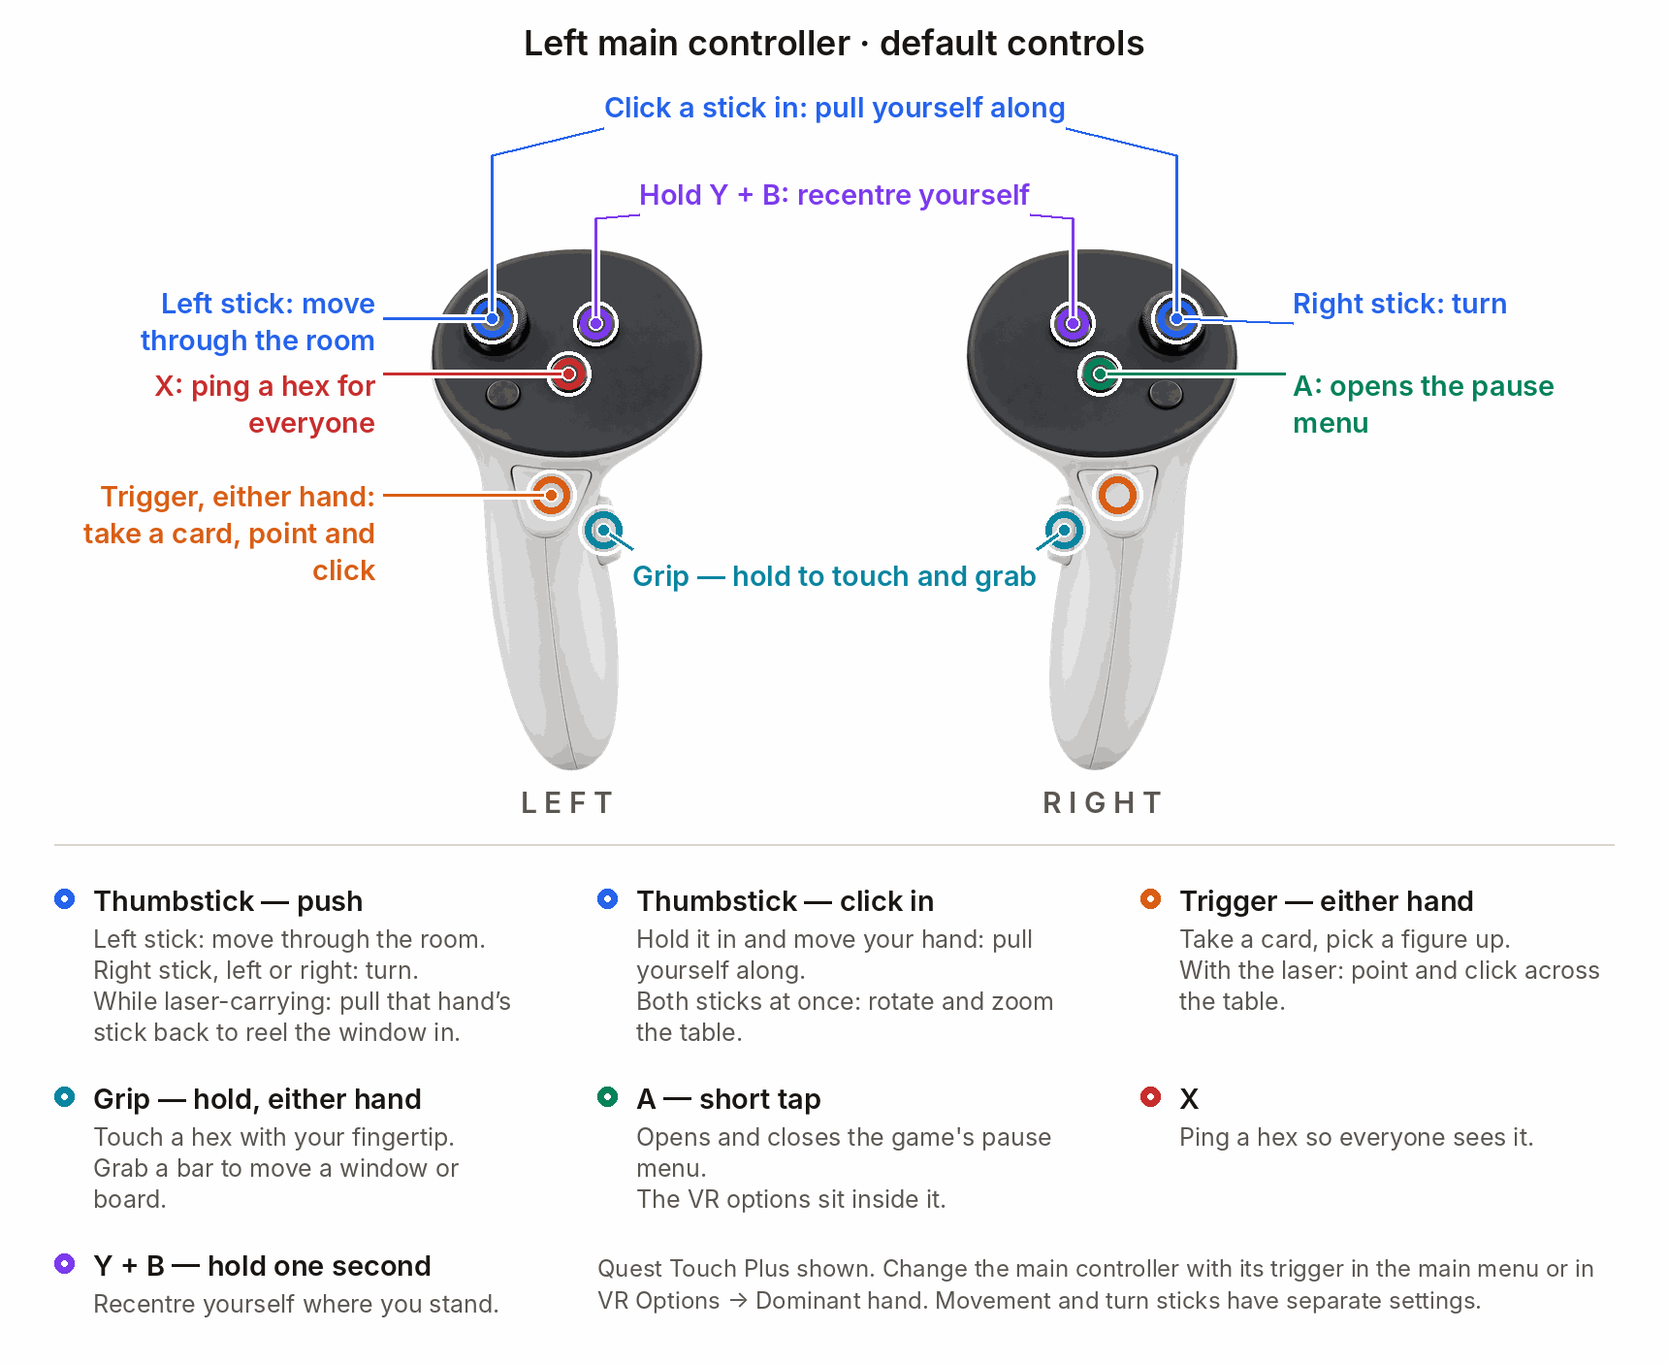
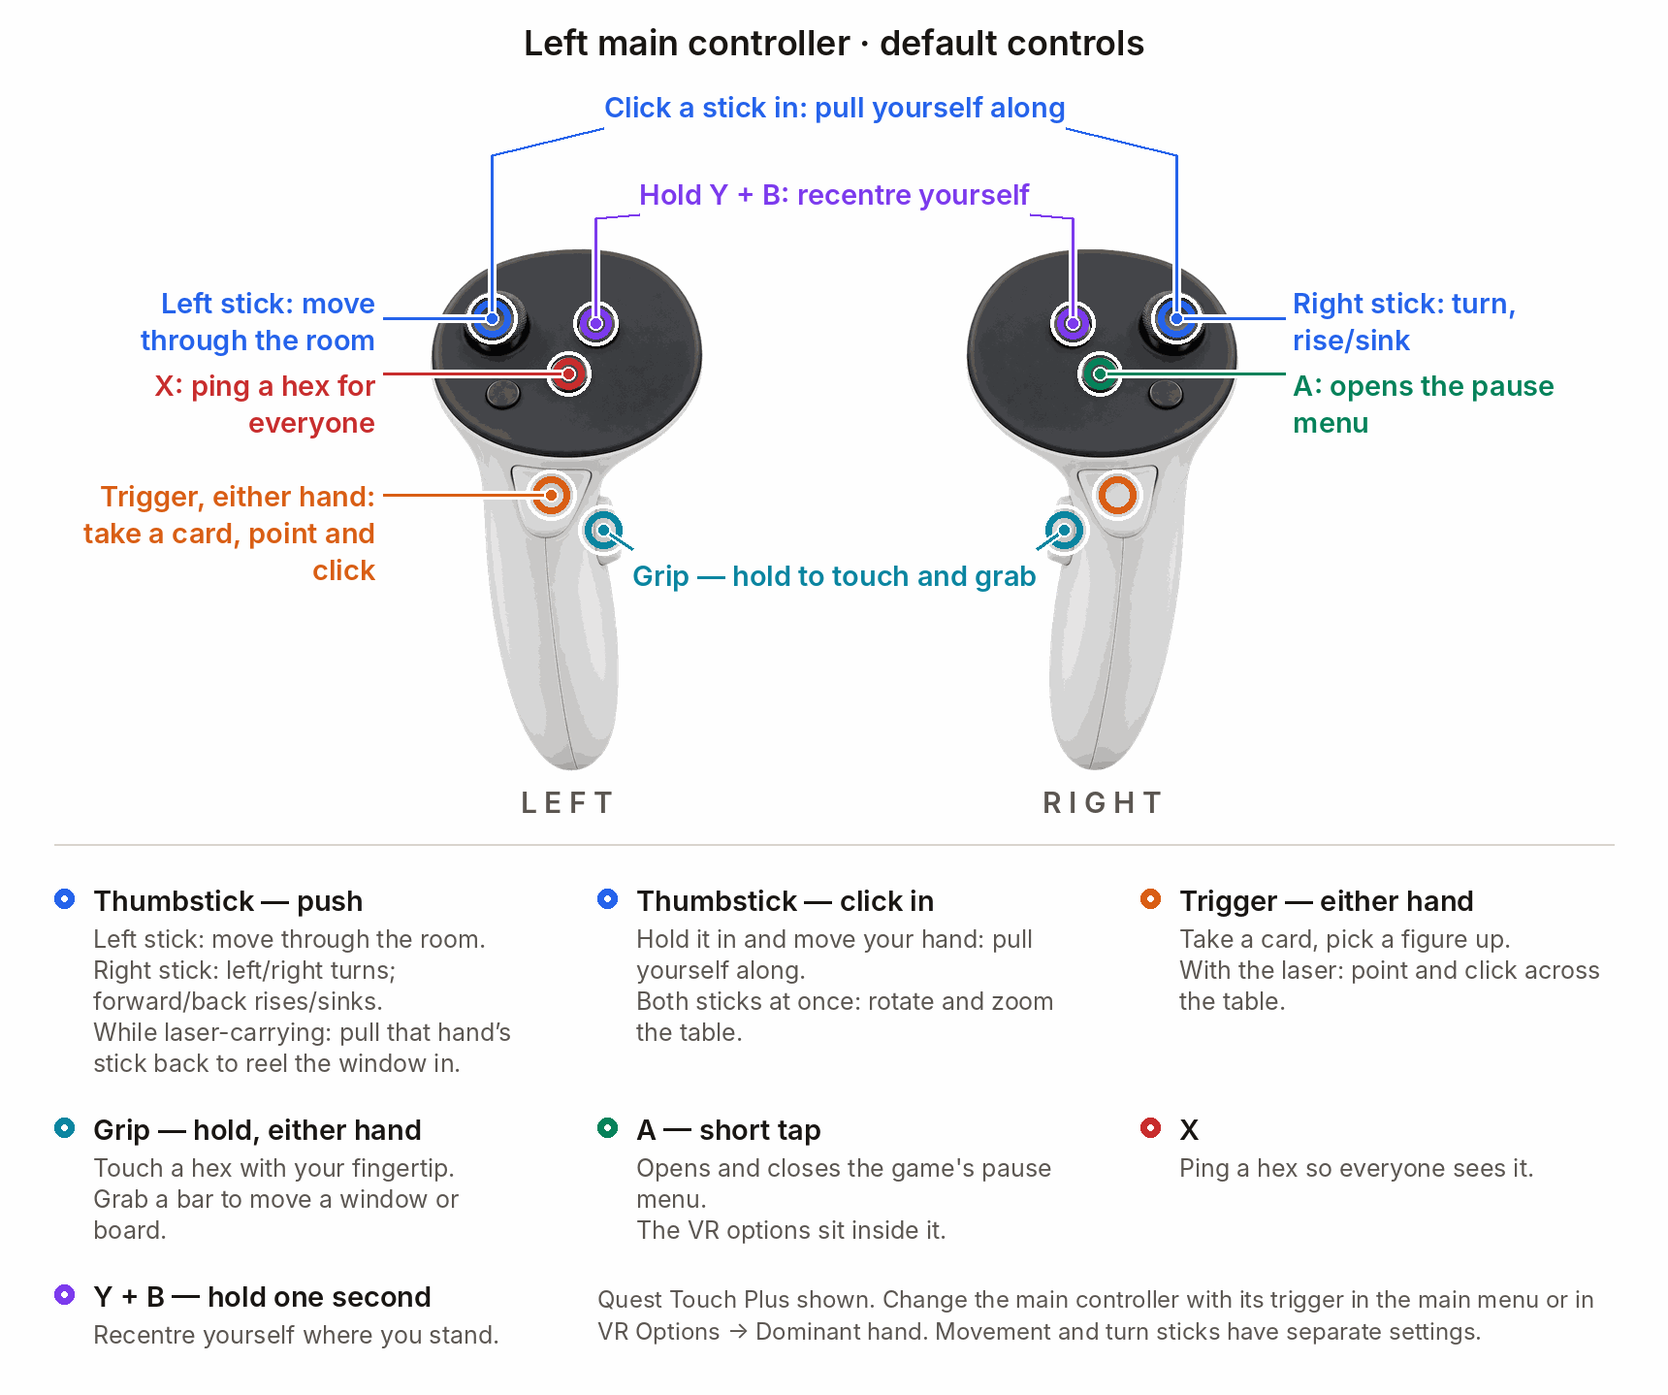
fix: apply requested comfort defaults and guard prompt teardown
Document initiative, fan sorting, recenter and new defaults in English and German; regenerate both handed controller diagrams. Register the board motion regression vectors. Final integration gates follow with build497.

diff --git a/src/GloomhavenVR/Rig/ComfortSettings.cs b/src/GloomhavenVR/Rig/ComfortSettings.cs
@@ -379,10 +379,7 @@ internal static class ComfortSettings
             new AcceptableValueRange<float>(0.2f, 3f));
         FlightHand = Bind("FlightHand", Defaults.FlightHand,
             "Which thumbstick flies. Dominant follows [Hands] PrimaryHand.");
-        // OFF BY DEFAULT, and that is the request itself rather than caution added on top: the user
-        // asked to be able to SET it ("Ich will es auch Optional einstelbar machen"). Its off state
-        // is exactly today's behaviour, so nothing about the flow depends on it, and uncommanded
-        // vertical motion is the one nausea risk in this feature.
+        // Enabled by default by the user ruling of 2026-09-10; the setting remains optional.
         TurnStickVertical = Bind("TurnStickVertical", Defaults.TurnStickVertical,
             "Push the TURN stick forward to rise and back to sink, straight up and down, at the " +
             "same speed as FlightMaxSpeed. Turning keeps the sideways axis and is never blocked by " +
@@ -390,11 +387,7 @@ internal static class ComfortSettings
             "it lifts at all, so a diagonal push at 45 degrees is a pure turn. Needs the turn hand " +
             "and the flight hand to be DIFFERENT hands - with both on one controller, forward and " +
             "backward flight already owns that axis and keeps it, and this does nothing.");
-        // ON BY DEFAULT, and unlike TurnStickVertical above that is not a contradiction: the user
-        // asked for the BEHAVIOUR ("implementiere sie") and named the switch only so it can be
-        // turned OFF ("als Option an/ausschaltbar"). A window pulled toward the player is also a
-        // strictly safer motion than the vertical lift — the player is not moved, one window is,
-        // and only while they hold its bar with the trigger.
+        // The reel owns this stick axis only while a window is laser-carried.
         LaserCarryReel = Bind("LaserCarryReel", Defaults.LaserCarryReel,
             "While you hold a window at a distance with the laser, pull that hand's thumbstick " +
             "BACK to draw the window toward you and push it forward to send it away - the " +

diff --git a/src/GloomhavenVR/WorldUI/Modal/SharedWindows.cs b/src/GloomhavenVR/WorldUI/Modal/SharedWindows.cs
@@ -432,18 +432,11 @@ internal static class SharedWindows
     /// <para><b>WHY THIS EXISTS: user request 7 (2026-08-22, verbatim)</b> — "Die Bewegungen der
     /// 'blauen' MP-Fenster, die 1:1 synchronisiert werden sollen, sollen auch die Bewegung und die
     /// Position voll übertragen (flüssig, wie bei der Position des Boards auch)". The board's
-    /// smoothness is TWO mechanisms, not one, and this is the SENDER half of it: while the owner is
-    /// dragging their board, <c>NetAvatarDriver.TickExtrasSend</c> raises the whole extras packet to
-    /// the RIG rate (<c>NetProtocol.SendRateHz</c> = 15 Hz) instead of the idle
-    /// <c>ExtrasSendRateHz</c> = 5 Hz, so the receiver's easing gets the same sample density the
-    /// head and hands already get ("Bewegen kommt nicht flüssig an", defect 7 of the 1:1-parity
-    /// round — see the boardMoving/poseDue pair there and the note in
-    /// <c>Net.RemoteControlBoard</c>). A shared window that is being carried is the same kind of
-    /// motion and now rides the same cadence.</para>
+    /// smoothness combines rig-rate samples and receiver easing. Shared-window grabs retain
+    /// their 15 Hz extras gate; since build497 the board itself travels in the small rig packet.
+    /// Both use the shared interpolation sharpness.</para>
     ///
-    /// <para><b>WHY "GRABBED" AND NOT "THE POSE CHANGED".</b> The board's own test compares the
-    /// sampled pose against the last SENT one, because the board has exactly one pose and the sender
-    /// already holds it. There is no such single quantity here — three window kinds, each of which
+    /// <para><b>WHY "GRABBED" AND NOT "THE POSE CHANGED".</b> Three window kinds
     /// may be absent — and a per-kind last-sent cache in this class would be a second copy of state
     /// <c>Net.RemoteMapStory</c> / <c>Net.RemoteStorySync</c> already keep. A hand on the bar is a
     /// strict SUPERSET of the interval the pose changes in, it cannot false-positive on a standing

diff --git a/docs/img/build-controls-diagram.py b/docs/img/build-controls-diagram.py
@@ -238,14 +238,14 @@ LABELS = {
             "left_stick":  "Left stick: move through the room",
             "left_button": "X: opens the pause menu",
             "trigger":     "Trigger, either hand: take a card, point and click",
-            "right_stick": "Right stick: turn",
+            "right_stick": "Right stick: turn, rise/sink",
             "right_button": "A: ping a hex for everyone",
             "grip":        "Grip — hold to touch and grab",
         },
         "cells": [
             (BLUE, "Thumbstick — push", [
                 "Left stick: move through the room.",
-                "Right stick, left or right: turn.",
+                "Right stick: left/right turns; forward/back rises/sinks.",
                 "While laser-carrying: pull that hand’s stick back to reel the window in.",
             ]),
             (BLUE, "Thumbstick — click in", [
@@ -291,14 +291,14 @@ LABELS = {
             "left_stick":  "Linker Stick: durch den Raum bewegen",
             "left_button": "X: öffnet das Pause-Menü",
             "trigger":     "Trigger, beide Hände: Karte nehmen, zeigen und klicken",
-            "right_stick": "Rechter Stick: drehen",
+            "right_stick": "Rechter Stick: drehen, hoch/runter",
             "right_button": "A: ein Feld für alle markieren",
             "grip":        "Grip — halten: berühren und greifen",
         },
         "cells": [
             (BLUE, "Thumbstick — drücken", [
                 "Linker Stick: durch den Raum bewegen.",
-                "Rechter Stick, links oder rechts: drehen.",
+                "Rechter Stick: links/rechts drehen; vor/zurück steigen/sinken.",
                 "Beim Laser-Tragen: Stick dieser Hand zurückziehen, um das Fenster heranzuholen.",
             ]),
             (BLUE, "Thumbstick — eindrücken", [

diff --git a/src/GloomhavenVR/Defaults/Defaults.Rig.cs b/src/GloomhavenVR/Defaults/Defaults.Rig.cs
@@ -29,13 +29,12 @@ internal static partial class Defaults
     internal const FlightDirectionSource FlightDirection = FlightDirectionSource.Head;  // => [Comfort] FlightDirection
     internal const float FlightMaxSpeed = 1.27367f;                 // => [Comfort] FlightMaxSpeed
     internal const TurnHandChoice FlightHand = TurnHandChoice.Left;   // => [Comfort] FlightHand
-    internal const bool TurnStickVertical = false;                  // => [Comfort] TurnStickVertical  (pinned: the user asked for it as an OPTION, and its off state is the pre-feature behaviour)
+    internal const bool TurnStickVertical = true;                  // => [Comfort] TurnStickVertical  (pinned: user default ruling 2026-09-10 - vertical movement enabled)
     // ---- the laser-carry reel (user request 2026-08-23) — it OVERRULES the two rows above ----
     //
     // ON, and that is the request rather than an opinion: "Falls sie noch nicht existiert,
     // implementiere sie" asks for the behaviour, and "als Option an/ausschaltbar" asks only that
-    // the switch exist. Contrast TurnStickVertical directly above, which is pinned OFF because
-    // there the user asked to be able to SET it and its off state is the pre-feature behaviour.
+    // the switch exist. Vertical movement also defaults on since the user ruling of 2026-09-10.
     // While a laser carry holds a hand, this takes that hand's stick Y and BOTH flight rows stand
     // down for the duration — see Flight.cs, where each stand-down names itself in the log rather
     // than going quiet, because a silent suppression is indistinguishable from a broken stick.

diff --git a/src/GloomhavenVR/Net/Board/PeerBoardFade.cs b/src/GloomhavenVR/Net/Board/PeerBoardFade.cs
@@ -8,12 +8,12 @@ namespace GloomhavenVR.Net;
 
 /// <summary>
 /// What a peer's control board does while it stands between this viewer and the play field.
-/// <see cref="Off"/> is the shipped behaviour, bit for bit: nothing is measured, nothing is
-/// written, no material is touched.
+/// <see cref="Off"/> leaves the board solid: nothing is measured or written.
+/// Transparent is the default since the user ruling of 2026-09-10.
 /// </summary>
 internal enum PeerBoardFadeMode
 {
-    /// <summary>Never yield. A peer's board renders exactly as it does today (default).</summary>
+    /// <summary>Never yield. A peer's board stays solid.</summary>
     Off = 0,
 
     /// <summary>Fade to <see cref="PeerBoardFadeTuning.Alpha"/> while the board occludes the
@@ -46,7 +46,7 @@ internal static class PeerBoardFadeTuning
 {
     private static ConfigFile? _file;
 
-    /// <summary>Off (shipped behaviour) / Transparent / Hidden — see <see cref="PeerBoardFadeMode"/>.</summary>
+    /// <summary>Off / Transparent (default) / Hidden — see <see cref="PeerBoardFadeMode"/>.</summary>
     internal static ConfigEntry<PeerBoardFadeMode>? FadeMode;
     /// <summary>Residual opacity of an occluding board in <see cref="PeerBoardFadeMode.Transparent"/>.</summary>
     internal static ConfigEntry<float>? OccludedAlpha;

diff --git a/src/GloomhavenVR/Defaults/Defaults.Cards.cs b/src/GloomhavenVR/Defaults/Defaults.Cards.cs
@@ -44,7 +44,7 @@ internal static partial class Defaults
     internal const float TrayYaw = -40.568f;                                                          // => [Cards] TrayYaw
     internal const float TrayScale = 1.42826f;                                                        // => [Cards] TrayScale
     internal const float PokePadPixels = 14f;                                                         // => [Cards] PokePadPixels
-    internal const bool TrayFollow = false;                                                           // => [Cards] TrayFollow
+    internal const bool TrayFollow = true;                                                           // => [Cards] TrayFollow  (pinned: user default ruling 2026-09-10 - follow rather than fixed)
     internal const BoardMoveMode BoardMoveMode = Cards.BoardMoveMode.Free;                            // => [Cards] BoardMoveMode
     internal const float TrayPitch = 43.585f;                                                         // => [Cards] TrayPitch
     internal const float BoardPitchMinDegrees = -45f;                                                 // => [Cards] BoardPitchMinDegrees  (legacy: superseded by the per-board BoardPitchMin_<board>)

diff --git a/src/GloomhavenVR/WorldUI/Grab/GrabbableModal.cs b/src/GloomhavenVR/WorldUI/Grab/GrabbableModal.cs
@@ -1283,9 +1283,8 @@ internal sealed class GrabbableModal : IPanelGrabOwner
     //      origin. Its scale rides the SAME k — defect (e) of that round was exactly a board that
     //      "glides while it moves and stutters while it zooms", because the scale was assigned while
     //      the pose was eased.
-    //   2. THE SENDER RAISES ITS CADENCE WHILE THE THING MOVES. NetAvatarDriver.TickExtrasSend's
-    //      boardMoving/poseDue pair puts the whole extras packet on the rig rate (15 Hz) for as long
-    //      as the board's pose keeps changing, and back on 5 Hz the moment it settles.
+    //   2. THE SENDER SUPPLIES RIG-RATE MOTION SAMPLES. Board motion uses the rig packet
+    //      since497; shared windows retain their 15 Hz active-grab extras gate.
     // The shared window ASSIGNED its pose (this class's PlaceFrameAt, called straight from
     // Net.RemoteMapStory / Net.RemoteStorySync) at whatever rate the record arrived. Half of the fix
     // is here; the sender half is in NetAvatarDriver, keyed on SharedWindows.AnyGrabbedHere().

diff --git a/src/GloomhavenVR/Defaults/Defaults.Net.cs b/src/GloomhavenVR/Defaults/Defaults.Net.cs
@@ -37,7 +37,7 @@ internal static partial class Defaults
     // dev.gloomhavenvr.boardfade.cfg would have come back UNMAPPED and the tuning would have been
     // dropped on the floor at the next re-base — the exact failure mode that cost six builds on
     // [Water] RippleSpeed. The values are the shipped ones, unchanged, moved verbatim.
-    internal const PeerBoardFadeMode PeerBoardFade_Mode = PeerBoardFadeMode.Off;       // => [PeerBoardFade] Mode
+    internal const PeerBoardFadeMode PeerBoardFade_Mode = PeerBoardFadeMode.Transparent;       // => [PeerBoardFade] Mode  (pinned: user default ruling 2026-09-10 - transparent while occluding the play field)
     internal const float PeerBoardOccludedAlpha = 0.25f;                               // => [PeerBoardFade] OccludedAlpha
     internal const float PeerBoardOnFraction = 0.12f;                                  // => [PeerBoardFade] OnFraction
     internal const float PeerBoardOffFraction = 0.05f;                                 // => [PeerBoardFade] OffFraction

diff --git a/src/GloomhavenVR/Net/Remote/RemoteOriginalDecisionPrompt.cs b/src/GloomhavenVR/Net/Remote/RemoteOriginalDecisionPrompt.cs
@@ -175,5 +175,14 @@ internal sealed class RemoteOriginalDecisionPrompt
         if (_stageHost != null) Object.Destroy(_stageHost);
         _stageHost = null; _stage = null; _lines.Clear(); _targets.Clear(); _mappedStamp = -1;
     }
-    internal void Destroy() { _mirror.Destroy(); ReleaseStage(); Object.Destroy(_placement.gameObject); }
+    internal void Destroy()
+    {
+        _mirror.Destroy();
+        ReleaseStage();
+        // Scene teardown can destroy the parent before module shutdown (MB496 log).
+        // Unity's null comparison must precede gameObject access on the retained wrapper.
+        if (_placement != null) Object.Destroy(_placement.gameObject);
+        Showing = false;
+        _identity = null;
+    }
 }

diff --git a/tests/GloomhavenVR.WireTests/Program.cs b/tests/GloomhavenVR.WireTests/Program.cs
@@ -213,6 +213,7 @@ internal static class Program
             // inert path matters just as much, because a clamp that fired on the bundle he
             // already has would move Oak's caps 8 mm and be blamed on anything but the clamp.
             BoardSeatVectors.Run(t);
+            BoardRigPoseVectors.Run(t);
             BoardCapSymbolVectors.Run(t);
             // WHETHER THE WORD ON THE KEY IS THE WHOLE WORD. The ModBuild 281 cap said
             // "AUSWAHL BEEN" for "Auswahl beenden" and every gate on this list agreed with it. The

diff --git a/docs/PLAYING.de.md b/docs/PLAYING.de.md
@@ -30,12 +30,14 @@ Fliegen bleibt standardmäßig links, Drehen rechts; beides lässt sich unter **
 
 - **Gehaltene Figur skalieren:** Trigger der anderen Hand halten und die Hände auseinander oder zusammen bewegen.
 - **45°-Drehschritte:** Unter **Komfort ▸ Drehen** einschalten.
-- **Steigen/sinken mit dem Dreh-Stick:** Unter **Komfort ▸ Fortbewegung** einschalten (standardmäßig aus).
+- **Steigen/sinken:** Rechten Stick nach vorn/hinten drücken (standardmäßig an); ändern unter **Komfort ▸ Fortbewegung**.
 
 Das interaktive Tutorial markiert die jeweilige Taste auf deinen Controllern.
 Ein- und ausschalten unter **Komfort ▸ Hände & Zielen**.
 
 ## Karten und Kontrollbrett
+
+**Linke Mulde = Initiative.** Lege deine Initiativkarte links und die zweite Karte rechts ab.
 
 <p align="center">
   <img src="img/board-de.png" width="820" alt="Beschriftetes Kontrollbrett: Kartenfächer, Bestätigen und Rückgängig, Rasten, Initiativreihenfolge, aktive Karten, Gegenstände und Kartenstapel.">
@@ -46,6 +48,15 @@ Ein- und ausschalten unter **Komfort ▸ Hände & Zielen**.
 | **Auswahlphase** | Handfläche nach oben drehen, um den Fächer zu öffnen. Zwei Karten mit dem Trigger nehmen und auf das Brett legen; das linke Fach bestimmt die Initiative. **Bestätigen** drücken. Über die Porträts in der Initiativreihenfolge die Karten für jeden eigenen Charakter auswählen. |
 | **Aktionsphase** | Ist dein Charakter am Zug, die obere oder untere Kartenaktion wählen, Ziele auswählen und verfügbare Gegenstände nutzen. Entscheidungen treffen und den Zug am Brett beenden. |
 | **Charaktere ansehen** | In der Auswahlphase zwischen eigenen Charakteren wechseln. In der Aktionsphase über die Initiativreihenfolge **jeden Charakter** ansehen: auch fremde und solche, die gerade nicht am Zug sind. Karten, Gegenstände und Entscheidungen bleiben einsehbar. Aktionen sind auf eigene Charaktere und die aktuellen Spielregeln beschränkt. |
+
+**Handkarten sortieren:** Eine Karte nehmen, über die gewünschte Lücke im Fächer halten und
+loslassen. Das geht bei eigenen Charakteren auf der Kampagnenkarte und in beiden Szenariophasen.
+Die Reihenfolge bleibt beim Szenariostart erhalten und ist für Mitspieler sichtbar.
+Abgeworfene Karten bei der langen Rast lassen sich nicht umsortieren.
+
+Das Brett **folgt dir standardmäßig**; über **Folgen/Fixiert** kannst du umschalten. **Y + B**
+halten, um dich neu zu zentrieren und das Brett vor dir zurückzusetzen. Fremde Bretter werden
+standardmäßig durchsichtig, wenn sie das Szenario verdecken. Gespeicherte Einstellungen gelten weiter.
 
 Die Stapel für **abgeworfene Karten**, **verbrannte Karten** und **Gegenstände** öffnen sich als
 Fächer. Auf dem Brett liegen auch **aktive Karten**, **Rückgängig**, **Überspringen**, Rast-Tasten

diff --git a/docs/PLAYING.md b/docs/PLAYING.md
@@ -30,12 +30,14 @@ and turning sticks stay left and right respectively; configure those separately 
 
 - **Resize a held figure:** hold the other hand's trigger and move your hands apart or together.
 - **45° snap turns:** enable under **Comfort ▸ Turning**.
-- **Rise/sink with the turning stick:** enable under **Comfort ▸ Locomotion** (off by default).
+- **Rise/sink:** push the right stick forward/back (on by default); change under **Comfort ▸ Locomotion**.
 
 The interactive tutorial highlights each control on your controllers. Toggle it under
 **Comfort ▸ Hands & aiming**.
 
 ## Cards and the control board
+
+**Left recess = initiative.** Put your initiative card on the left and the second card on the right.
 
 <p align="center">
   <img src="img/board-en.png" width="820" alt="Labelled control board: card slots, confirm and undo buttons, rests, initiative order, active cards, items and card piles.">
@@ -46,6 +48,14 @@ The interactive tutorial highlights each control on your controllers. Toggle it 
 | **Selection** | Turn your palm up to open the fan. Take two cards with the trigger and place them in the board slots; the left slot sets initiative. Press **Confirm**. Click portraits in the initiative order to select the cards for each character you control. |
 | **Action** | On your character's turn, select the top or bottom card action, choose targets and use available items. Resolve decisions and end the turn on the board. |
 | **Inspect characters** | During selection, switch between characters you control. During the action phase, click **any character** in the initiative order to inspect their cards, items and decisions, including other players' characters and characters whose turn it is not. Actions remain limited to characters you control and the current game rules. |
+
+**Sort your hand:** lift a card, hold it over the desired gap in your fan and release. This works
+for your own characters on the campaign map and in both scenario phases; the order carries into
+the scenario and other players see it. Long-rest discard choices cannot be reordered.
+
+The board **follows you by default**; use its **Follow/Fixed** control to change that. Hold
+**Y + B** to recenter yourself and reset the board in front of you. Other players' boards become
+transparent by default while covering the scenario. Existing saved settings remain in effect.
 
 The **discard**, **burnt** and **item** piles open as fans. The board also holds **active cards**,
 **Undo**, **Skip**, rest buttons and the decision area.
